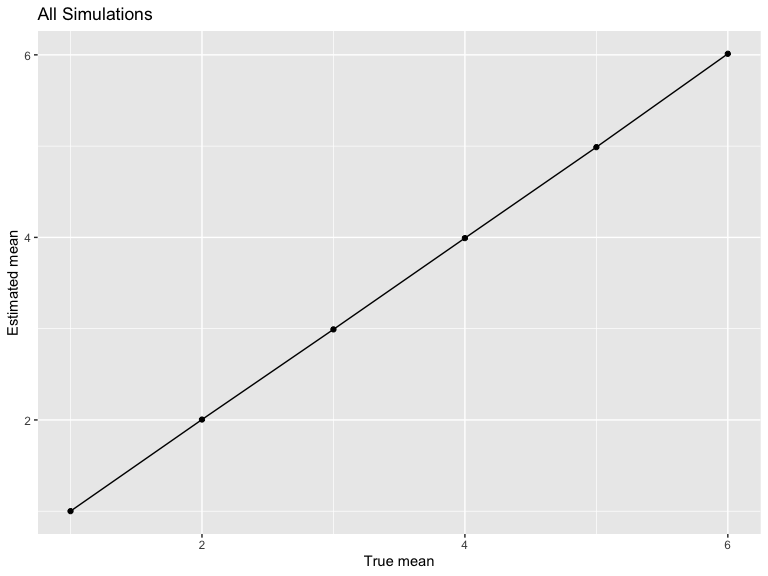
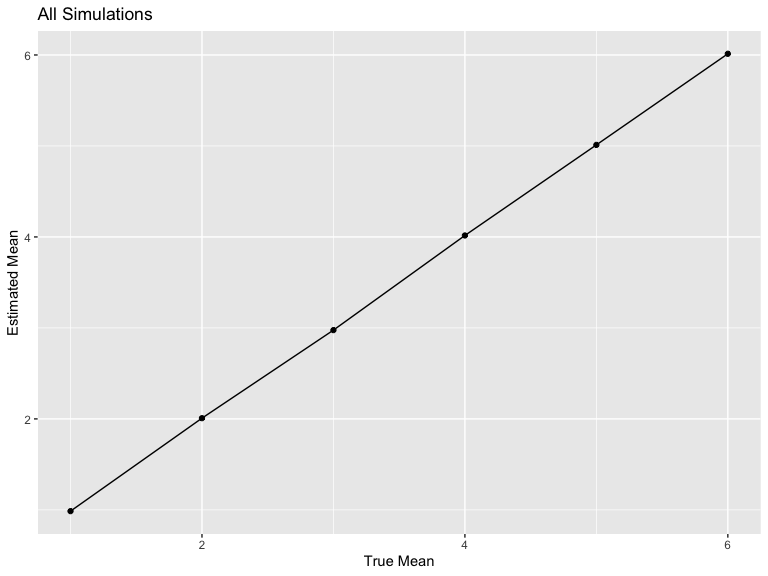
done!

diff --git a/p8105_hw5_zz3039.md b/p8105_hw5_zz3039.md
@@ -9,25 +9,29 @@ Imported data:
 ``` r
 homicide_data = 
   read.csv("./data/homicide-data.csv") %>% 
-  janitor::clean_names() %>% 
-  mutate(
-    city_state = paste(city, state, sep=", ")
-  ) %>% 
-  select(city_state, - city, - state, everything())
+  janitor::clean_names() 
 ```
+
+The raw data includes **12** variables, which are **uid, reported_date,
+victim_last, victim_first, victim_race, victim_age, victim_sex, city,
+state, lat, lon, disposition**, with **52179** observations as total.
 
 Summed over number of cases:
 
 ``` r
 homi_sum = 
   homicide_data %>% 
+  mutate(
+    city_state = paste(city, state, sep=", ")
+  ) %>% 
+  select(city_state, - city, - state, everything()) %>% 
   group_by(city_state) %>% 
   summarize(
     n_homicide = n(),
     n_unsolved = sum(disposition != "Closed by arrest"))
 ```
 
-Prop.test for baltimore:
+Prop.test for Baltimore:
 
 ``` r
 balti = 
@@ -76,7 +80,24 @@ homi_prop_extrct =
     conf.high = round(conf.high, digits = 3),
     CI = str_c("(", conf.low,", ", conf.high, ")")) %>% 
   select(city_state, estimate, CI, everything())
+
+print(homi_prop_extrct, n = 10)
 ```
+
+    ## # A tibble: 51 × 5
+    ##    city_state      estimate CI             conf.low conf.high
+    ##    <chr>              <dbl> <chr>             <dbl>     <dbl>
+    ##  1 Albuquerque, NM    0.386 (0.337, 0.438)    0.337     0.438
+    ##  2 Atlanta, GA        0.383 (0.353, 0.415)    0.353     0.415
+    ##  3 Baltimore, MD      0.646 (0.628, 0.663)    0.628     0.663
+    ##  4 Baton Rouge, LA    0.462 (0.414, 0.511)    0.414     0.511
+    ##  5 Birmingham, AL     0.434 (0.399, 0.469)    0.399     0.469
+    ##  6 Boston, MA         0.505 (0.465, 0.545)    0.465     0.545
+    ##  7 Buffalo, NY        0.612 (0.569, 0.654)    0.569     0.654
+    ##  8 Charlotte, NC      0.3   (0.266, 0.336)    0.266     0.336
+    ##  9 Chicago, IL        0.736 (0.724, 0.747)    0.724     0.747
+    ## 10 Cincinnati, OH     0.445 (0.408, 0.483)    0.408     0.483
+    ## # … with 41 more rows
 
 Plot:
 
@@ -88,6 +109,10 @@ homi_prop_extrct %>%
   ggplot(aes(x = city_state, y = estimate)) +
   geom_point(color = "grey") +
   geom_errorbar(mapping=aes(x = city_state, ymin = conf.low, ymax = conf.high), width=0.05, size=1, color="light blue") +
+  labs(
+    x = "City and State",
+    y = "Estimate Proportion"
+  ) +
   theme(axis.text.x = element_text(angle = 90, hjust = 1))
 ```
 
@@ -125,22 +150,19 @@ sim_results
 ```
 
     ## # A tibble: 5,000 × 2
-    ##     mu_hat p_value
-    ##      <dbl>   <dbl>
-    ##  1  0.912   0.319 
-    ##  2 -0.841   0.351 
-    ##  3 -0.528   0.596 
-    ##  4 -0.0825  0.926 
-    ##  5 -1.93    0.0857
-    ##  6 -0.593   0.482 
-    ##  7 -1.23    0.215 
-    ##  8 -0.492   0.608 
-    ##  9  0.0636  0.954 
-    ## 10  0.0559  0.953 
+    ##    mu_hat p_value
+    ##     <dbl>   <dbl>
+    ##  1 -0.505  0.655 
+    ##  2 -0.782  0.555 
+    ##  3  0.357  0.708 
+    ##  4 -0.756  0.370 
+    ##  5  0.391  0.689 
+    ##  6 -1.08   0.246 
+    ##  7  1.25   0.242 
+    ##  8  1.88   0.0401
+    ##  9 -0.714  0.469 
+    ## 10 -0.750  0.431 
     ## # … with 4,990 more rows
-
-t_test = t.test(sim_data\$x, alternative = c(“two.sided”), mu = mu) %\>%
-broom::tidy()
 
 Repeated for different mus:
 
@@ -162,16 +184,16 @@ sim_results_mus
     ## # A tibble: 30,000 × 5
     ##    sample_size    mu  iter mu_hat p_value
     ##          <dbl> <dbl> <int>  <dbl>   <dbl>
-    ##  1          30     1     1  1.66  0.0644 
-    ##  2          30     1     2  2.05  0.0105 
-    ##  3          30     1     3  0.477 0.659  
-    ##  4          30     1     4  2.10  0.0711 
-    ##  5          30     1     5  3.16  0.00103
-    ##  6          30     1     6  1.92  0.0474 
-    ##  7          30     1     7  1.30  0.205  
-    ##  8          30     1     8  1.88  0.00459
-    ##  9          30     1     9  2.31  0.0323 
-    ## 10          30     1    10  1.25  0.229  
+    ##  1          30     1     1  0.305 0.749  
+    ##  2          30     1     2  0.842 0.367  
+    ##  3          30     1     3  1.62  0.0538 
+    ##  4          30     1     4  0.186 0.859  
+    ##  5          30     1     5 -0.242 0.796  
+    ##  6          30     1     6  2.26  0.00840
+    ##  7          30     1     7  0.929 0.317  
+    ##  8          30     1     8  1.41  0.243  
+    ##  9          30     1     9 -0.744 0.422  
+    ## 10          30     1    10  2.47  0.00307
     ## # … with 29,990 more rows
 
 Plot-power/mean
@@ -185,13 +207,14 @@ sim_results_mus %>%
   ggplot(aes(x = mu, y = power)) +
   geom_line() +
   labs(
-    x = "True mean",
+    x = "True Mean",
     y = "Power"
   )
 ```
 
 <img src="p8105_hw5_zz3039_files/figure-gfm/unnamed-chunk-8-1.png" width="90%" />
-The power of the test increases as the simulation size increases.
+
+The power of the test increases as the mu of the simulation increases.
 
 Plot-estimated/true
 
@@ -206,8 +229,8 @@ sim_results_mus %>%
   geom_line() +
   labs(
     title = "All Simulations",
-    x = "True mean",
-    y = "Estimated mean"
+    x = "True Mean",
+    y = "Estimated Mean"
   )
 ```
 
@@ -231,5 +254,8 @@ sim_results_mus %>%
 ```
 
 <img src="p8105_hw5_zz3039_files/figure-gfm/unnamed-chunk-9-2.png" width="90%" />
-Is the sample average of mu across tests for which the null is rejected
-approximately equal to the true value of mu? Why or why not?
+
+The sample average of mu across tests for which the null is rejected is
+not close to the true value of mu, because the t.test told us that under
+a 0.95 significant level, we believe that the true mu of their
+population is not 0.
